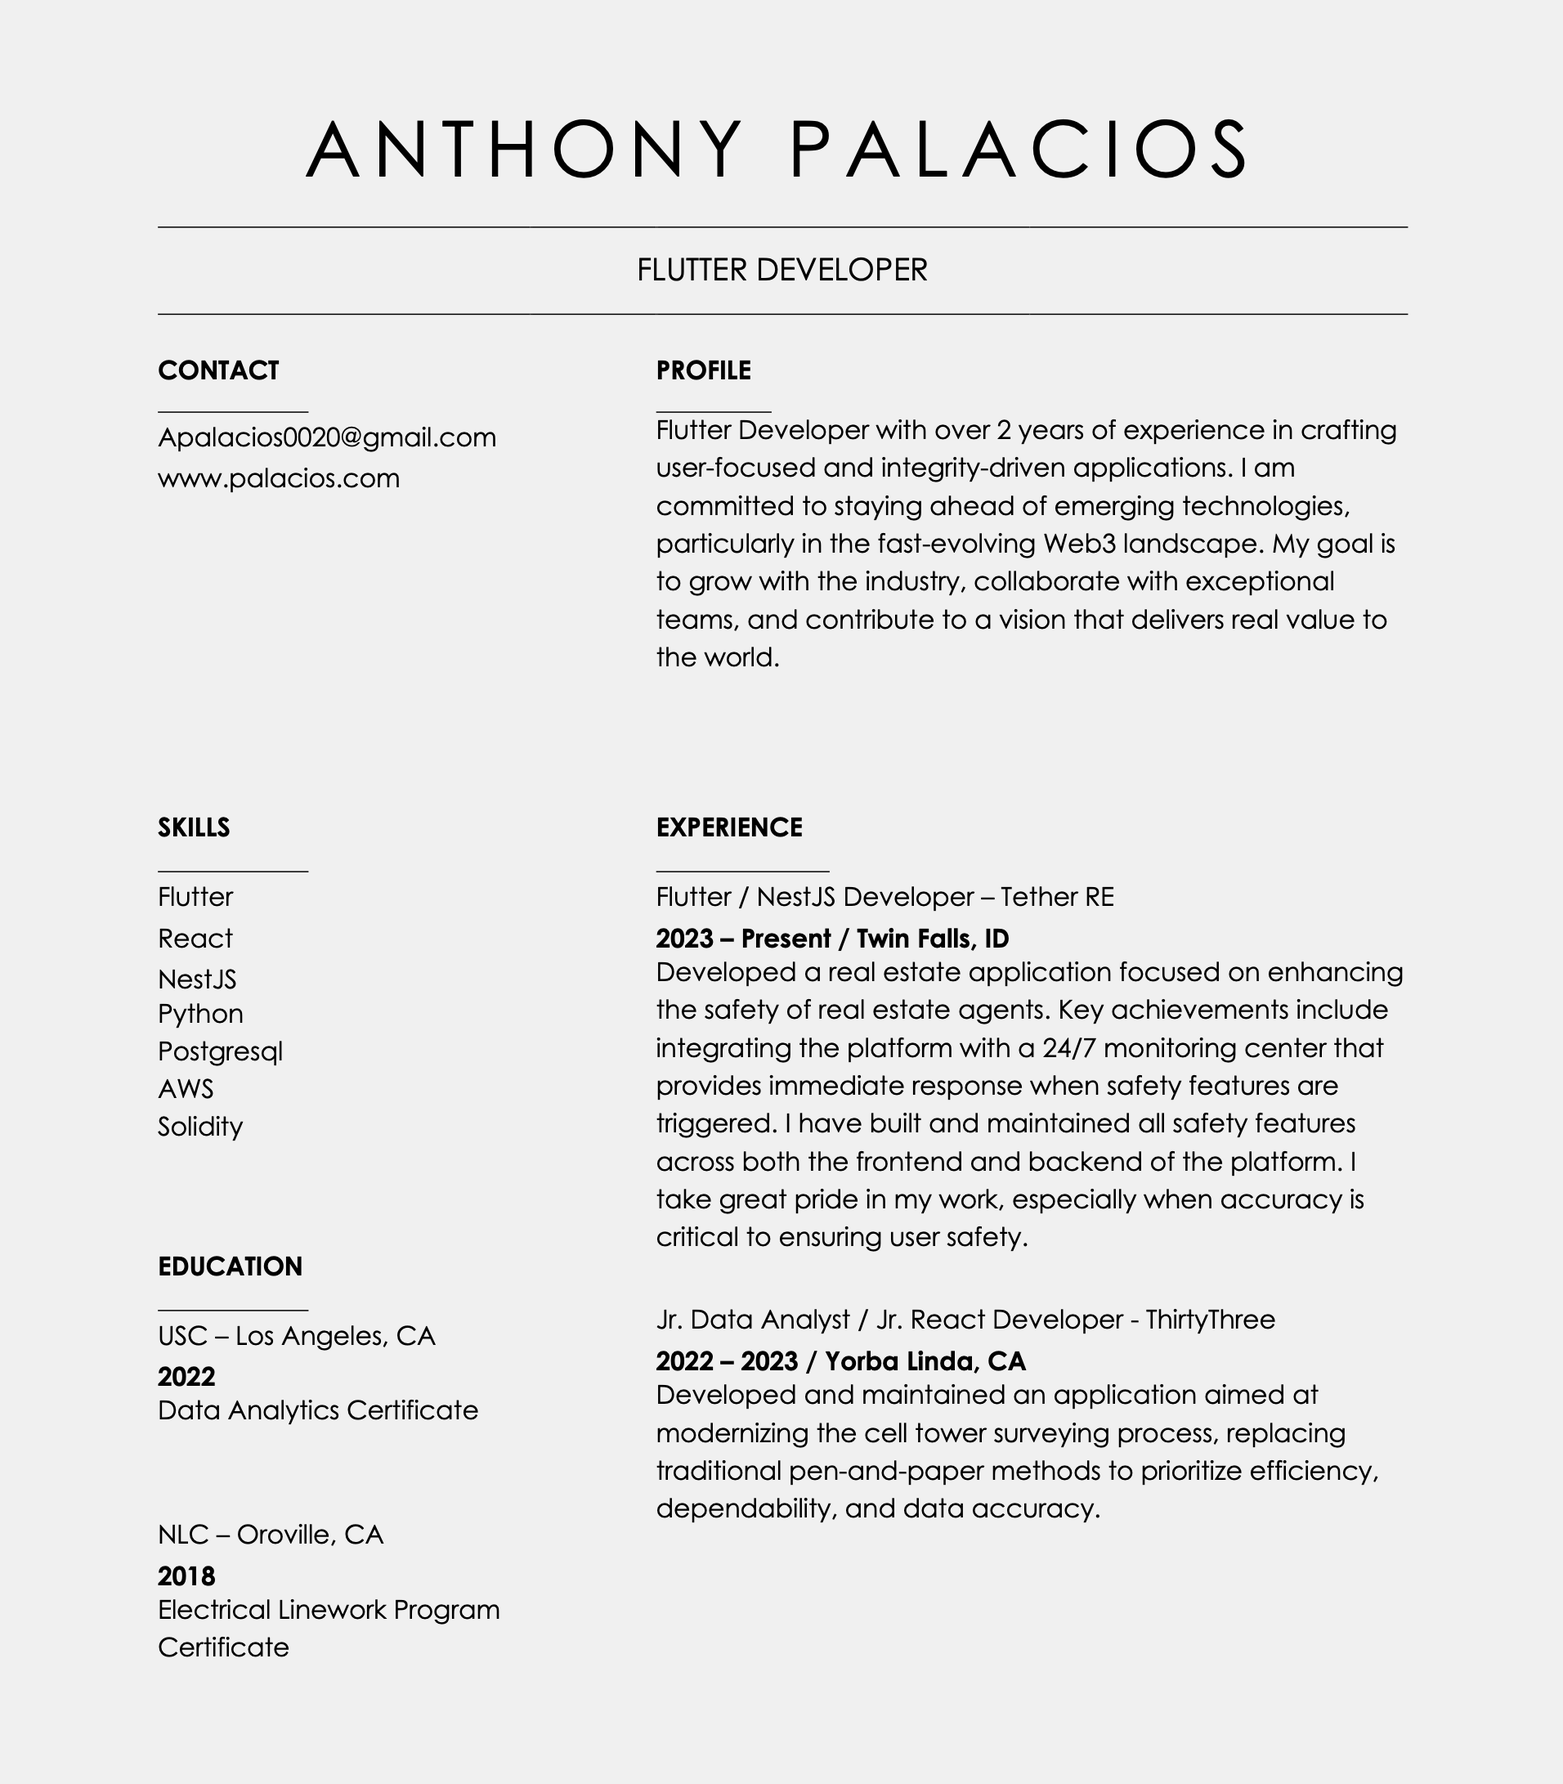
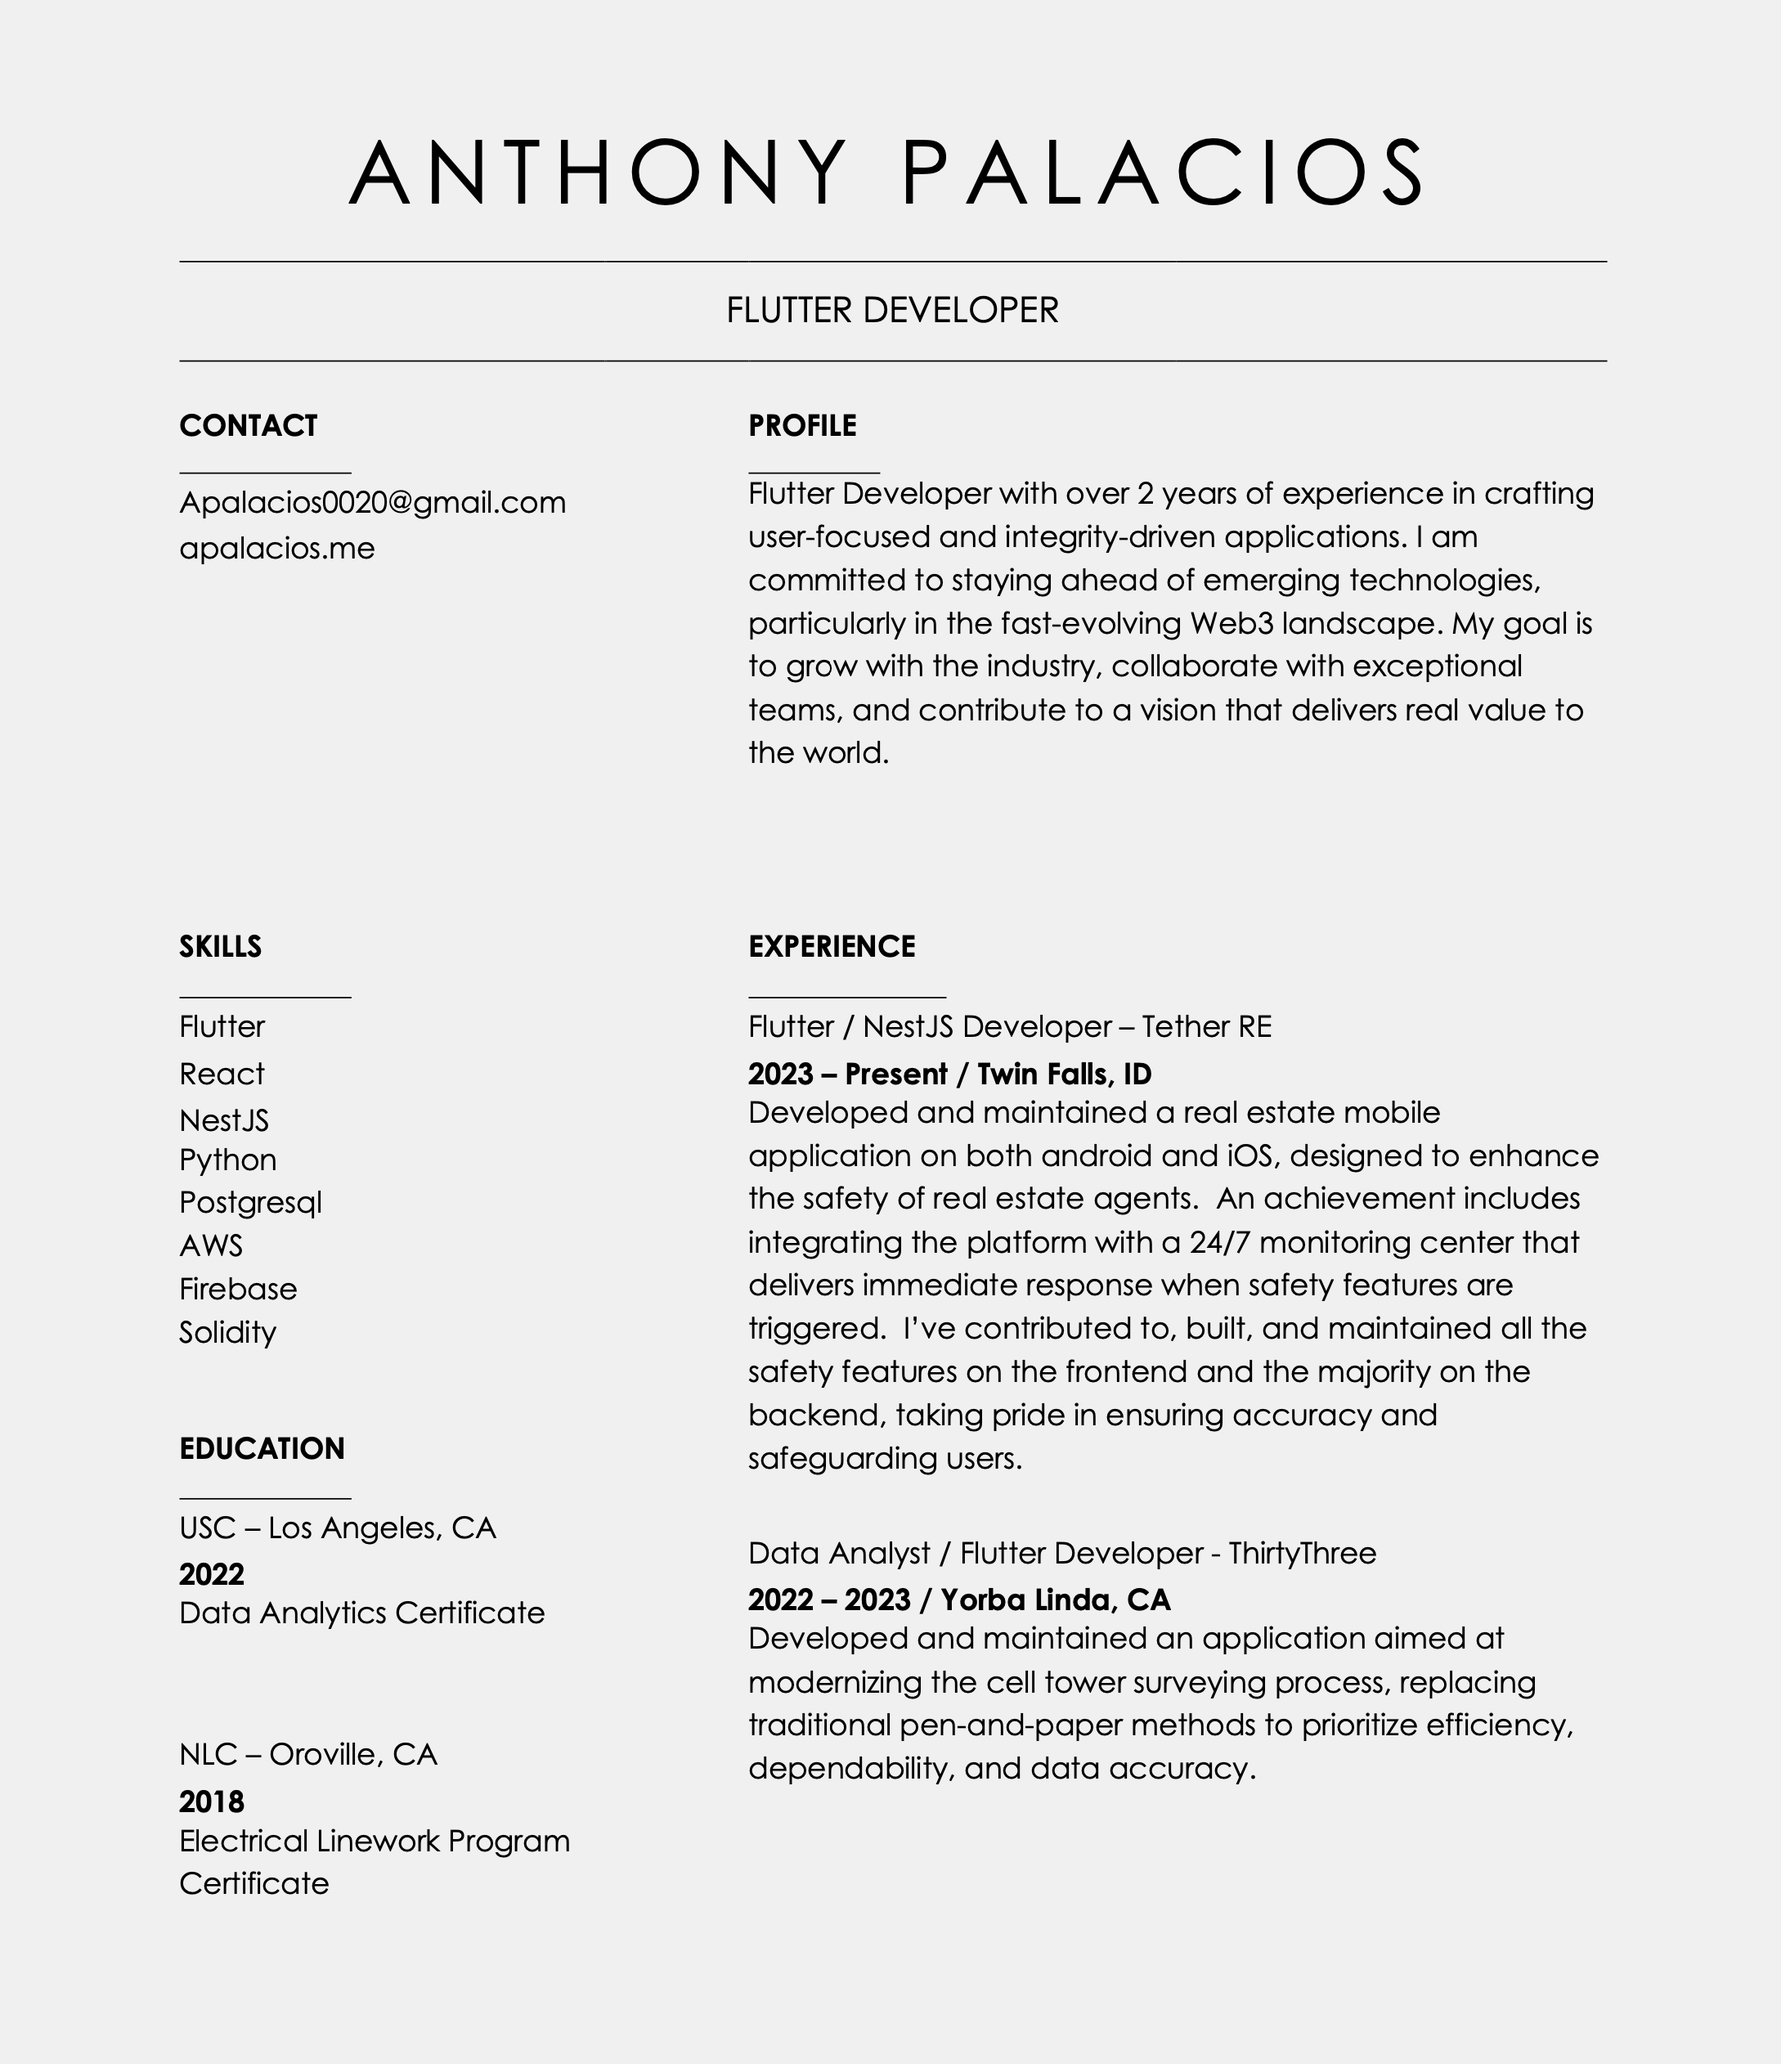
edited resume and made minor changes to job details

diff --git a/lib/pages/views/projects_skills_view.dart b/lib/pages/views/projects_skills_view.dart
@@ -118,7 +118,7 @@ class _ProjectsAndSkillsViewState extends State<ProjectsAndSkillsView> {
                                       borderRadius: BorderRadius.circular(10),
                                       child: Image.asset(
                                         'assets/resume.png',
-                                        fit: BoxFit.contain,
+                                        fit: BoxFit.cover,
                                       ),
                                     ),
                                   ),
@@ -157,14 +157,14 @@ class _ProjectsAndSkillsViewState extends State<ProjectsAndSkillsView> {
               jobLocation: 'Twin Falls, Idaho',
               jobWebsite: 'tetherre.com',
               jobDescription:
-                  'Developed a real estate mobile application designed to enhance the safety of real estate agents. A major achievement includes integrating the platform with a 24/7 monitoring center that delivers immediate responses when safety features are triggered. I’ve built and maintained all safety features on the frontend and the majority on the backend, taking pride in ensuring accuracy and safeguarding users.',
+                  'Developed and maintained a real estate mobile application on both Android and iOS, designed to enhance the safety of real estate agents.  An achievement includes integrating the platform with a 24/7 monitoring center that delivers immediate response when safety features are triggered.  I’ve contributed to, built, and maintained all the safety features on the frontend and the majority on the backend, taking pride in ensuring accuracy and safeguarding users.',
               skills: const [
                 'Flutter',
                 'React',
                 'JavaScript',
                 'NestJS',
                 'Postgresql',
-                'AWS'
+                'AWS',
               ],
               imageName: "TetherRE.png",
             ),
@@ -174,13 +174,19 @@ class _ProjectsAndSkillsViewState extends State<ProjectsAndSkillsView> {
             JobTile(
               controller: widget.controller,
               positionHeldAtCompany:
-                  'Jr. Flutter Developer / Data Analyst @ ThirtyThree',
+                  'Flutter Developer / Data Analyst @ ThirtyThree',
               yearsWorkedAtCo: '2022 - 2023',
               jobLocation: 'Yorba Linda, California',
               jobWebsite: null,
               jobDescription:
                   'Developed and maintained an application aimed at modernizing the cell tower surveying process, replacing traditional pen-and-paper methods to prioritize efficiency, dependability, and data accuracy.',
-              skills: const ['React', 'JavaScript', 'NestJS', 'Postgresql'],
+              skills: const [
+                'Flutter',
+                'React',
+                'JavaScript',
+                'NestJS',
+                'Postgresql'
+              ],
               imageName: "tangent.png",
             ),
             const SizedBox(
